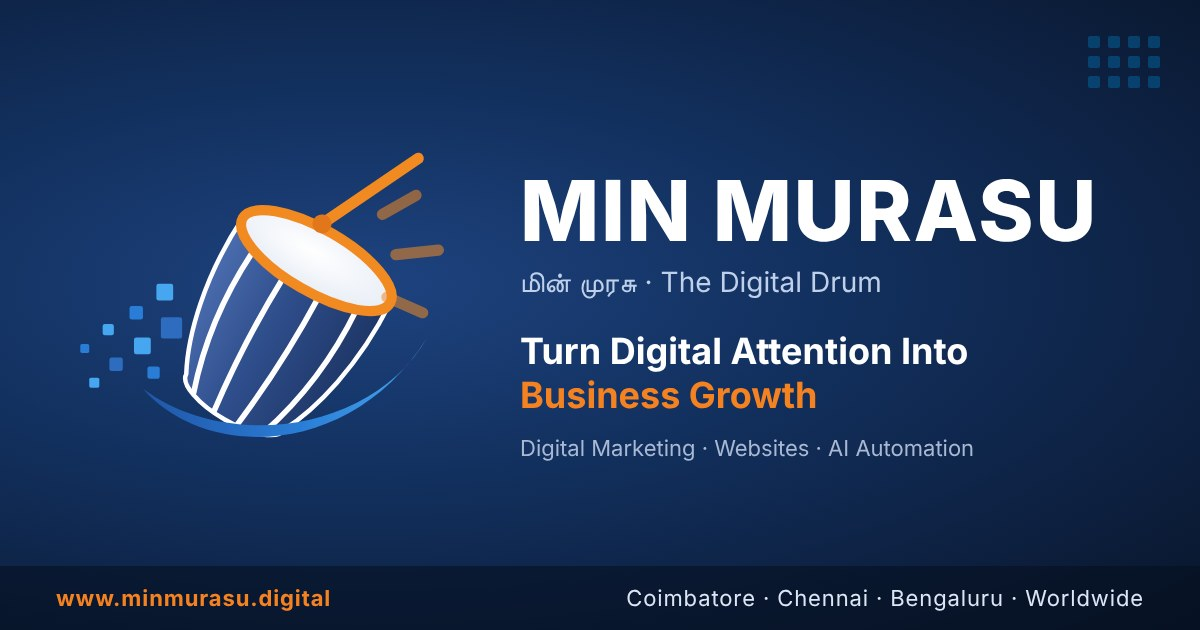
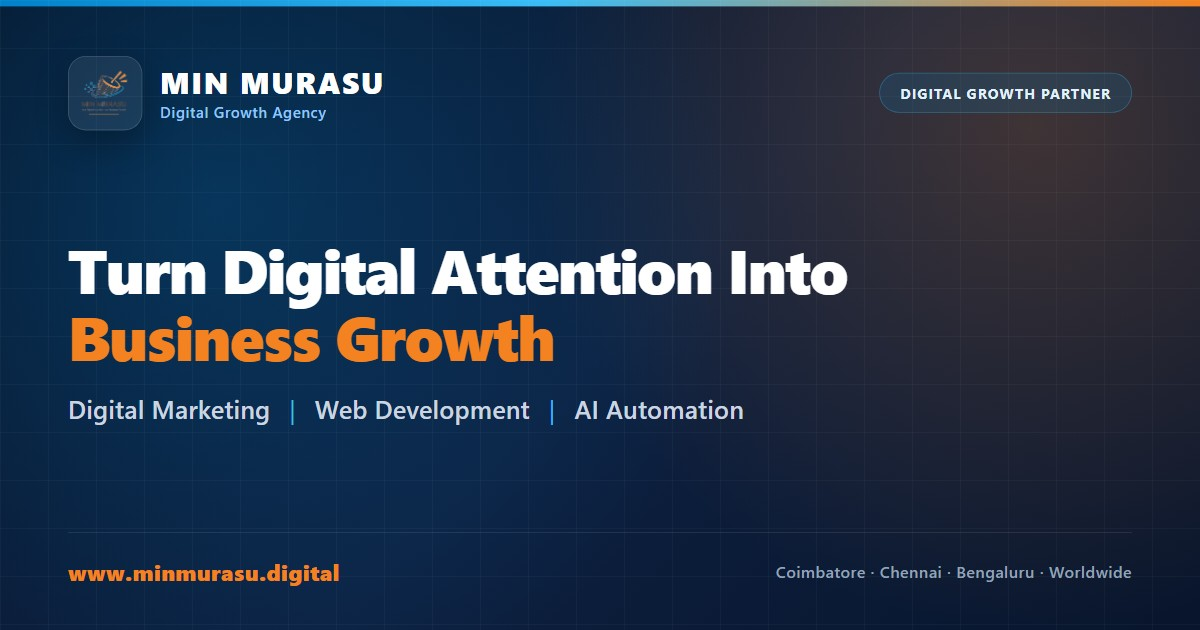
whatsup iamge thumbnaill

diff --git a/src/app/layout.tsx b/src/app/layout.tsx
@@ -24,10 +24,11 @@ export const viewport: Viewport = {
 export const metadata: Metadata = {
   metadataBase: new URL(siteConfig.url),
   title: {
-    default: siteConfig.seo.defaultTitle,
+    default: "MIN MURASU | Digital Growth Agency",
     template: siteConfig.seo.titleTemplate,
   },
-  description: siteConfig.shortDescription,
+  description:
+    "Turn Digital Attention Into Business Growth. Digital marketing, web development and AI automation.",
   // No canonical here: child routes inherit it, which would point every page
   // without its own canonical at the homepage. Each page sets its own instead.
   keywords: siteConfig.seo.keywords,
@@ -44,26 +45,19 @@ export const metadata: Metadata = {
   openGraph: {
     type: "website",
     locale: siteConfig.seo.locale,
-    url: siteConfig.url,
-    title: siteConfig.seo.defaultTitle,
-    description: siteConfig.shortDescription,
+    url: `${siteConfig.url}/`,
+    title: "MIN MURASU | Digital Growth Agency",
+    description:
+      "Turn Digital Attention Into Business Growth. Digital marketing, web development and AI automation.",
     siteName: siteConfig.name,
-    images: [
-      {
-        url: siteConfig.brand.ogImage,
-        width: 1200,
-        height: 630,
-        alt: siteConfig.seo.defaultTitle,
-      },
-    ],
   },
   twitter: {
     card: "summary_large_image",
     site: siteConfig.seo.twitterHandle,
     creator: siteConfig.seo.twitterHandle,
-    title: siteConfig.seo.defaultTitle,
-    description: siteConfig.shortDescription,
-    images: [siteConfig.brand.ogImage],
+    title: "MIN MURASU | Digital Growth Agency",
+    description:
+      "Turn Digital Attention Into Business Growth. Digital marketing, web development and AI automation.",
   },
   robots: {
     index: true,

diff --git a/src/app/work/page.tsx b/src/app/work/page.tsx
@@ -29,10 +29,27 @@ import type { Metadata } from "next";
 import Image from "next/image";
 
 export const metadata: Metadata = {
-  title: "Work, Web Products & Solution Blueprints",
+  title: { absolute: "Our Work | MIN MURASU" },
   description:
-    "Explore MIN MURASU's proprietary web and digital marketing products, production client platforms, and verified growth system blueprints.",
-  alternates: { canonical: "/work" },
+    "Explore websites, digital experiences and AI-powered business solutions created by MIN MURASU.",
+  alternates: { canonical: "https://www.minmurasu.digital/work" },
+  openGraph: {
+    type: "website",
+    locale: "en_IN",
+    siteName: "MIN MURASU",
+    url: "https://www.minmurasu.digital/work",
+    title: "Our Work | MIN MURASU",
+    description:
+      "Explore websites, digital experiences and AI-powered business solutions created by MIN MURASU.",
+  },
+  twitter: {
+    card: "summary_large_image",
+    site: "@minmurasu",
+    creator: "@minmurasu",
+    title: "Our Work | MIN MURASU",
+    description:
+      "Explore websites, digital experiences and AI-powered business solutions created by MIN MURASU.",
+  },
 };
 
 /* ------------------------------------------------------------------ */

diff --git a/src/app/contact/layout.tsx b/src/app/contact/layout.tsx
@@ -1,4 +1,5 @@
 import type { Metadata } from "next";
+import { siteConfig } from "@/lib/site-config";
 
 // The contact page is a client component, so its metadata lives here.
 export const metadata: Metadata = {
@@ -6,6 +7,23 @@ export const metadata: Metadata = {
   description:
     "Talk to MIN MURASU, a Coimbatore digital marketing agency, about SEO, Google & Meta Ads, websites, AI search and WhatsApp automation. Call, WhatsApp or send an enquiry.",
   alternates: { canonical: "/contact" },
+  openGraph: {
+    type: "website",
+    locale: siteConfig.seo.locale,
+    siteName: siteConfig.name,
+    url: `${siteConfig.url}/contact`,
+    title: "Contact Us | MIN MURASU",
+    description:
+      "Talk to MIN MURASU about SEO, Google & Meta Ads, websites, AI search and WhatsApp automation. Call, WhatsApp or send an enquiry.",
+  },
+  twitter: {
+    card: "summary_large_image",
+    site: siteConfig.seo.twitterHandle,
+    creator: siteConfig.seo.twitterHandle,
+    title: "Contact Us | MIN MURASU",
+    description:
+      "Talk to MIN MURASU about SEO, Google & Meta Ads, websites, AI search and WhatsApp automation.",
+  },
 };
 
 export default function ContactLayout({

diff --git a/src/app/industries/page.tsx b/src/app/industries/page.tsx
@@ -23,6 +23,25 @@ export const metadata: Metadata = {
   description:
     "Tailored digital marketing, web engineering, and AI automation for Healthcare, Real Estate, Manufacturing, Education, and Retail sectors.",
   alternates: { canonical: "/industries" },
+  openGraph: {
+    type: "website",
+    locale: "en_IN",
+    siteName: "MIN MURASU",
+    url: "https://www.minmurasu.digital/industries",
+    title: "Industry Growth Solutions | MIN MURASU",
+    description:
+      "Tailored digital marketing, web engineering, and AI automation for Healthcare, Real Estate, Manufacturing, Education, and Retail sectors.",
+    images: [{ url: "/images/og-image.jpg", width: 1200, height: 630, alt: "Industry Growth Solutions | MIN MURASU" }],
+  },
+  twitter: {
+    card: "summary_large_image",
+    site: "@minmurasu",
+    creator: "@minmurasu",
+    title: "Industry Growth Solutions | MIN MURASU",
+    description:
+      "Tailored digital marketing, web engineering, and AI automation for Healthcare, Real Estate, Manufacturing, Education, and Retail sectors.",
+    images: ["/images/og-image.jpg"],
+  },
 };
 
 const iconMap = {

diff --git a/src/app/about/page.tsx b/src/app/about/page.tsx
@@ -22,6 +22,25 @@ export const metadata: Metadata = {
   description:
     "Learn about MIN MURASU, an engineering-driven digital growth and AI automation agency headquartered in Coimbatore, Tamil Nadu.",
   alternates: { canonical: "/about" },
+  openGraph: {
+    type: "website",
+    locale: siteConfig.seo.locale,
+    siteName: siteConfig.name,
+    url: `${siteConfig.url}/about`,
+    title: "About Us | MIN MURASU",
+    description:
+      "Learn about MIN MURASU, an engineering-driven digital growth and AI automation agency headquartered in Coimbatore, Tamil Nadu.",
+    images: [{ url: siteConfig.brand.ogImage, width: 1200, height: 630, alt: "About Us | MIN MURASU" }],
+  },
+  twitter: {
+    card: "summary_large_image",
+    site: siteConfig.seo.twitterHandle,
+    creator: siteConfig.seo.twitterHandle,
+    title: "About Us | MIN MURASU",
+    description:
+      "Learn about MIN MURASU, an engineering-driven digital growth and AI automation agency headquartered in Coimbatore, Tamil Nadu.",
+    images: [siteConfig.brand.ogImage],
+  },
 };
 
 const values = [

diff --git a/src/app/approach/page.tsx b/src/app/approach/page.tsx
@@ -17,6 +17,25 @@ export const metadata: Metadata = {
   alternates: {
     canonical: "/approach",
   },
+  openGraph: {
+    type: "website",
+    locale: "en_IN",
+    siteName: "MIN MURASU",
+    url: "https://www.minmurasu.digital/approach",
+    title: "Our Approach | MIN MURASU",
+    description:
+      "Explore MIN MURASU's disciplined 5-stage digital growth methodology combining SEO, GEO, high-speed web engineering, and AI enquiry automation.",
+    images: [{ url: "/images/og-image.jpg", width: 1200, height: 630, alt: "Our Approach | MIN MURASU" }],
+  },
+  twitter: {
+    card: "summary_large_image",
+    site: "@minmurasu",
+    creator: "@minmurasu",
+    title: "Our Approach | MIN MURASU",
+    description:
+      "Explore MIN MURASU's disciplined 5-stage digital growth methodology combining SEO, GEO, high-speed web engineering, and AI enquiry automation.",
+    images: ["/images/og-image.jpg"],
+  },
 };
 
 export default function ApproachPage() {

diff --git a/src/app/free-audit/layout.tsx b/src/app/free-audit/layout.tsx
@@ -8,6 +8,23 @@ export const metadata: Metadata = {
   alternates: {
     canonical: `${siteConfig.url}/free-audit`,
   },
+  openGraph: {
+    type: "website",
+    locale: siteConfig.seo.locale,
+    siteName: siteConfig.name,
+    url: `${siteConfig.url}/free-audit`,
+    title: "Free Digital Presence & SEO Audit | MIN MURASU",
+    description:
+      "Request a complimentary 5-point Digital Presence, SEO, AI Search (GEO), and Conversion Audit for your business from MIN MURASU.",
+  },
+  twitter: {
+    card: "summary_large_image",
+    site: siteConfig.seo.twitterHandle,
+    creator: siteConfig.seo.twitterHandle,
+    title: "Free Digital Presence & SEO Audit | MIN MURASU",
+    description:
+      "Request a complimentary 5-point Digital Presence, SEO, AI Search (GEO), and Conversion Audit for your business from MIN MURASU.",
+  },
 };
 
 export default function FreeAuditLayout({

diff --git a/src/app/industries/[slug]/page.tsx b/src/app/industries/[slug]/page.tsx
@@ -40,6 +40,23 @@ export async function generateMetadata({ params }: IndustryPageProps): Promise<M
     alternates: {
       canonical: `${siteConfig.url}/industries/${slug}`,
     },
+    openGraph: {
+      type: "website",
+      locale: siteConfig.seo.locale,
+      siteName: siteConfig.name,
+      url: `${siteConfig.url}/industries/${slug}`,
+      title: `${industry.title} Digital Growth | MIN MURASU`,
+      description: industry.summary,
+      images: [{ url: siteConfig.brand.ogImage, width: 1200, height: 630, alt: `${industry.title} Digital Growth | MIN MURASU` }],
+    },
+    twitter: {
+      card: "summary_large_image",
+      site: siteConfig.seo.twitterHandle,
+      creator: siteConfig.seo.twitterHandle,
+      title: `${industry.title} Digital Growth | MIN MURASU`,
+      description: industry.summary,
+      images: [siteConfig.brand.ogImage],
+    },
   };
 }
 

diff --git a/src/app/book/layout.tsx b/src/app/book/layout.tsx
@@ -8,6 +8,23 @@ export const metadata: Metadata = {
   alternates: {
     canonical: `${siteConfig.url}/book`,
   },
+  openGraph: {
+    type: "website",
+    locale: siteConfig.seo.locale,
+    siteName: siteConfig.name,
+    url: `${siteConfig.url}/book`,
+    title: "Book a Free 30-Minute Growth Consultation | MIN MURASU",
+    description:
+      "Schedule a complimentary 30-minute Digital Growth, SEO, Web Engineering, and AI Automation consultation with MIN MURASU.",
+  },
+  twitter: {
+    card: "summary_large_image",
+    site: siteConfig.seo.twitterHandle,
+    creator: siteConfig.seo.twitterHandle,
+    title: "Book a Free 30-Minute Growth Consultation | MIN MURASU",
+    description:
+      "Schedule a complimentary 30-minute Digital Growth, SEO, Web Engineering, and AI Automation consultation with MIN MURASU.",
+  },
 };
 
 export default function BookLayout({

diff --git a/src/app/pricing/page.tsx b/src/app/pricing/page.tsx
@@ -21,7 +21,18 @@ export const metadata: Metadata = {
     title: "Pricing & Plans | MIN MURASU",
     description: `Five published plans in INR and USD. Monthly plans from ${startingMonthly}/month. No lock-in, no ad spend markup.`,
     url: `${siteConfig.url}/pricing`,
+    siteName: siteConfig.name,
+    locale: siteConfig.seo.locale,
     type: "website",
+    images: [{ url: siteConfig.brand.ogImage, width: 1200, height: 630, alt: "Pricing & Plans | MIN MURASU" }],
+  },
+  twitter: {
+    card: "summary_large_image",
+    site: siteConfig.seo.twitterHandle,
+    creator: siteConfig.seo.twitterHandle,
+    title: "Pricing & Plans | MIN MURASU",
+    description: `Five published plans in INR and USD. Monthly plans from ${startingMonthly}/month. No lock-in, no ad spend markup.`,
+    images: [siteConfig.brand.ogImage],
   },
 };
 

diff --git a/src/app/services/[slug]/page.tsx b/src/app/services/[slug]/page.tsx
@@ -105,9 +105,21 @@ export async function generateMetadata({ params }: ServicePageProps): Promise<Me
       canonical: `${siteConfig.url}/services/${slug}`,
     },
     openGraph: {
+      type: "website",
+      locale: siteConfig.seo.locale,
+      siteName: siteConfig.name,
       title: `${seoTitle} | MIN MURASU`,
       description: service.heroDescription,
       url: `${siteConfig.url}/services/${slug}`,
+      images: [{ url: siteConfig.brand.ogImage, width: 1200, height: 630, alt: `${seoTitle} | MIN MURASU` }],
+    },
+    twitter: {
+      card: "summary_large_image",
+      site: siteConfig.seo.twitterHandle,
+      creator: siteConfig.seo.twitterHandle,
+      title: `${seoTitle} | MIN MURASU`,
+      description: service.heroDescription,
+      images: [siteConfig.brand.ogImage],
     },
   };
 }

diff --git a/src/app/for-developers/page.tsx b/src/app/for-developers/page.tsx
@@ -21,7 +21,19 @@ export const metadata: Metadata = {
     description:
       "A 14-day, fixed-price distribution sprint for developers with a shipped product and no growth.",
     url: `${siteConfig.url}/for-developers`,
+    siteName: siteConfig.name,
+    locale: siteConfig.seo.locale,
     type: "website",
+    images: [{ url: siteConfig.brand.ogImage, width: 1200, height: 630, alt: "Distribution Sprint for Developers | MIN MURASU" }],
+  },
+  twitter: {
+    card: "summary_large_image",
+    site: siteConfig.seo.twitterHandle,
+    creator: siteConfig.seo.twitterHandle,
+    title: "You shipped it. Now let's get it paid for.",
+    description:
+      "A 14-day, fixed-price distribution sprint for developers with a shipped product and no growth.",
+    images: [siteConfig.brand.ogImage],
   },
 };
 
